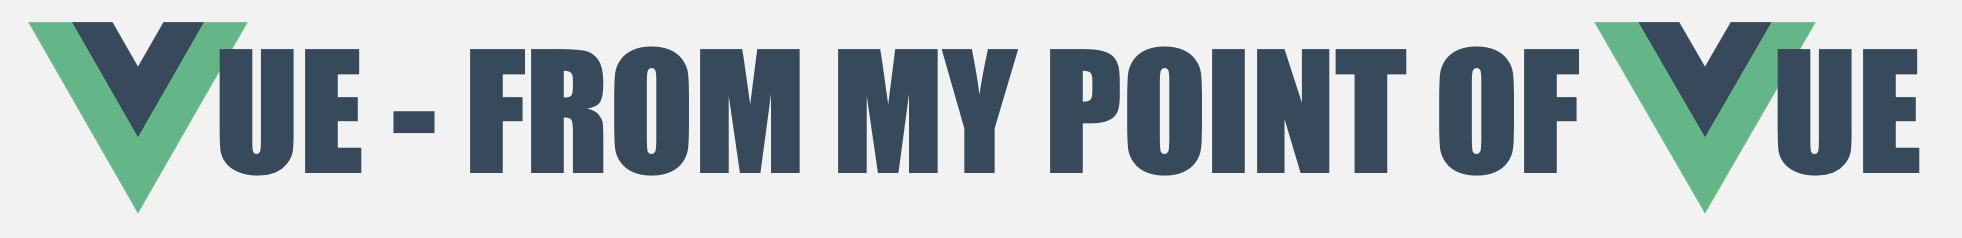
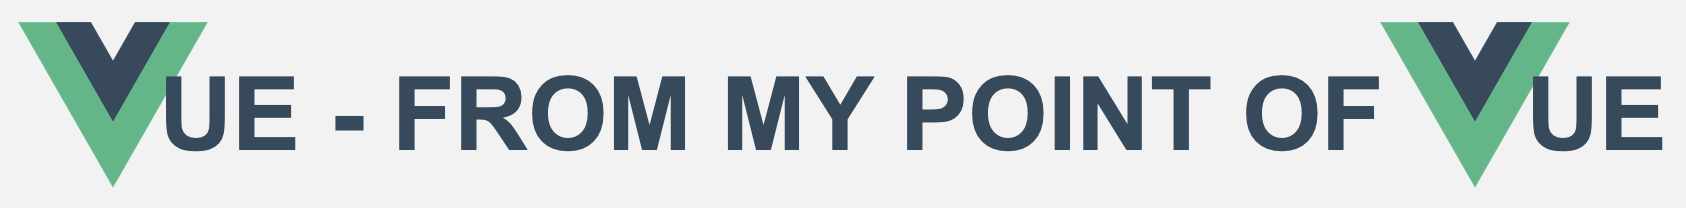
- Final styling, slides and images

Changed region(s): [[0.0, 0.0865, 0.987, 0.8942]]

diff --git a/src/App.vue b/src/App.vue
@@ -1,22 +1,20 @@
 <template>
   <div id="app">
-    <div class="col-2">
-      <Slide :key="activeSlide" v-bind:slide-data="activeSlide" />
-      <div class="app__button-group">
-        <ScopeStyledButton
-          v-bind:func="prevSlide"
-          button-text="<"
-          :disabled="isPrevDisabled"
-        />
-        <div class="app__slide-number">
-          {{ slides.indexOf(activeSlide) + 1 }}
-        </div>
-        <ScopeStyledButton
-          v-bind:func="nextSlide"
-          button-text=">"
-          :disabled="isNextDisabled"
-        />
+    <Slide :key="activeSlide" v-bind:slide-data="activeSlide" />
+    <div class="app__button-group">
+      <ScopeStyledButton
+        v-bind:func="prevSlide"
+        button-text="<"
+        v-bind:disabled="isPrevDisabled"
+      />
+      <div class="app__slide-number">
+        {{ slides.indexOf(activeSlide) + 1 }}
       </div>
+      <ScopeStyledButton
+        v-bind:func="nextSlide"
+        button-text=">"
+        v-bind:disabled="isNextDisabled"
+      />
     </div>
   </div>
 </template>
@@ -70,8 +68,7 @@ body {
   background-color: #f2f2f2;
 }
 #app {
-  /*font-family: Avenir, Helvetica, Arial, sans-serif;*/
-  font-family: Impact serif;
+  font-family: Avenir, Helvetica, Arial, sans-serif;
   -webkit-font-smoothing: antialiased;
   -moz-osx-font-smoothing: grayscale;
   text-align: center;
@@ -108,6 +105,15 @@ body {
   }
 }
 
+h1 {
+  font-weight: bold;
+}
+
+@font-face {
+  font-family: HPImpact;
+  src: url("./assets/HP-Impact.ttf");
+}
+
 @font-face {
   font-family: Impact;
   src: url("./assets/impact.ttf");
@@ -115,5 +121,3 @@ body {
 </style>
 
 <!-- TODO LOAD SCSS FROM SOMEWHRE IN A COMPONENT. -->
-
-<!-- TODO RENAEM Col-2 -->

diff --git a/src/components/Slide.vue b/src/components/Slide.vue
@@ -11,7 +11,7 @@
         alt="title-icon"
       />
     </div>
-    <div class="slide__container">
+    <div v-if="slideData.image || slideData.notes.length" class="slide__container">
       <img
         v-if="slideData.image"
         v-bind:class="{
@@ -58,7 +58,7 @@ export default class Slide extends Vue {
   &__container {
     border: 1px solid black;
     width: 60vw;
-    height: 70vh;
+    height: 75vh;
     margin: 1rem 0;
     background-color: white;
 
@@ -69,7 +69,7 @@ export default class Slide extends Vue {
 
   &__title {
     &--icon {
-      height: 50px;
+      height: 60px;
     }
     &--h1 {
       margin: 0;
@@ -100,7 +100,7 @@ export default class Slide extends Vue {
     align-self: center;
     display: flex;
     flex-direction: column;
-    justify-content: space-around;
+    justify-content: space-evenly;
     height: 100%;
     p {
       text-align: right;
